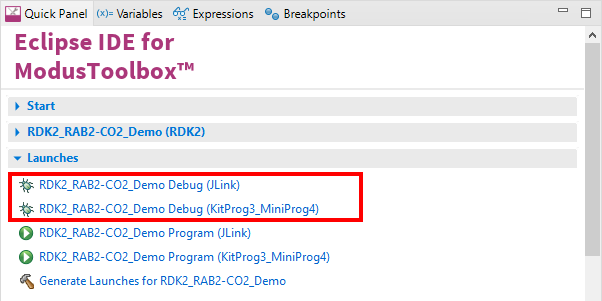
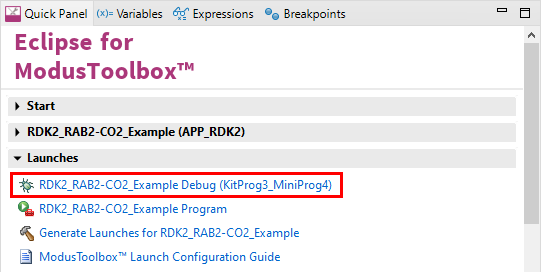
mtb 2025.04 updates.

diff --git a/README.md b/README.md
@@ -8,7 +8,7 @@ This code example demonstrates the PAS Co2 and SCD41 sensors with the RDK2.
 
 ## Requirements
 
-- [ModusToolbox® software](https://www.infineon.com/cms/en/design-support/tools/sdk/modustoolbox-software/) **v3.x** [built with **v3.0**]
+- [ModusToolbox® software](https://www.infineon.com/cms/en/design-support/tools/sdk/modustoolbox-software/) **v2025.4.0** [built with **v3.0**]
 
 ## Supported toolchains (make variable 'TOOLCHAIN')
 
@@ -129,7 +129,7 @@ The firmware example uses KitProg3 Debug UART for the debug output. The results 
 
 ### Debugging
 
-If you successfully have imported the example, the debugging configurations are already prepared to be used with a the KitProg3, MiniProg4, or J-link. Open the ModusToolbox perspective and find the Quick Panel. Click on the desired debug launch configuration and wait for the programming to  complete and debugging process to start.
+If you have successfully imported the example, the debugging configurations are already prepared to be used with the KitProg3, MiniProg4. Open the ModusToolbox perspective and find the Quick Panel. Click on the desired debug launch configuration and wait for the programming to complete and the debugging process to start.
 
 <img src="images/debugging.png" style="zoom:100%;" />
 
